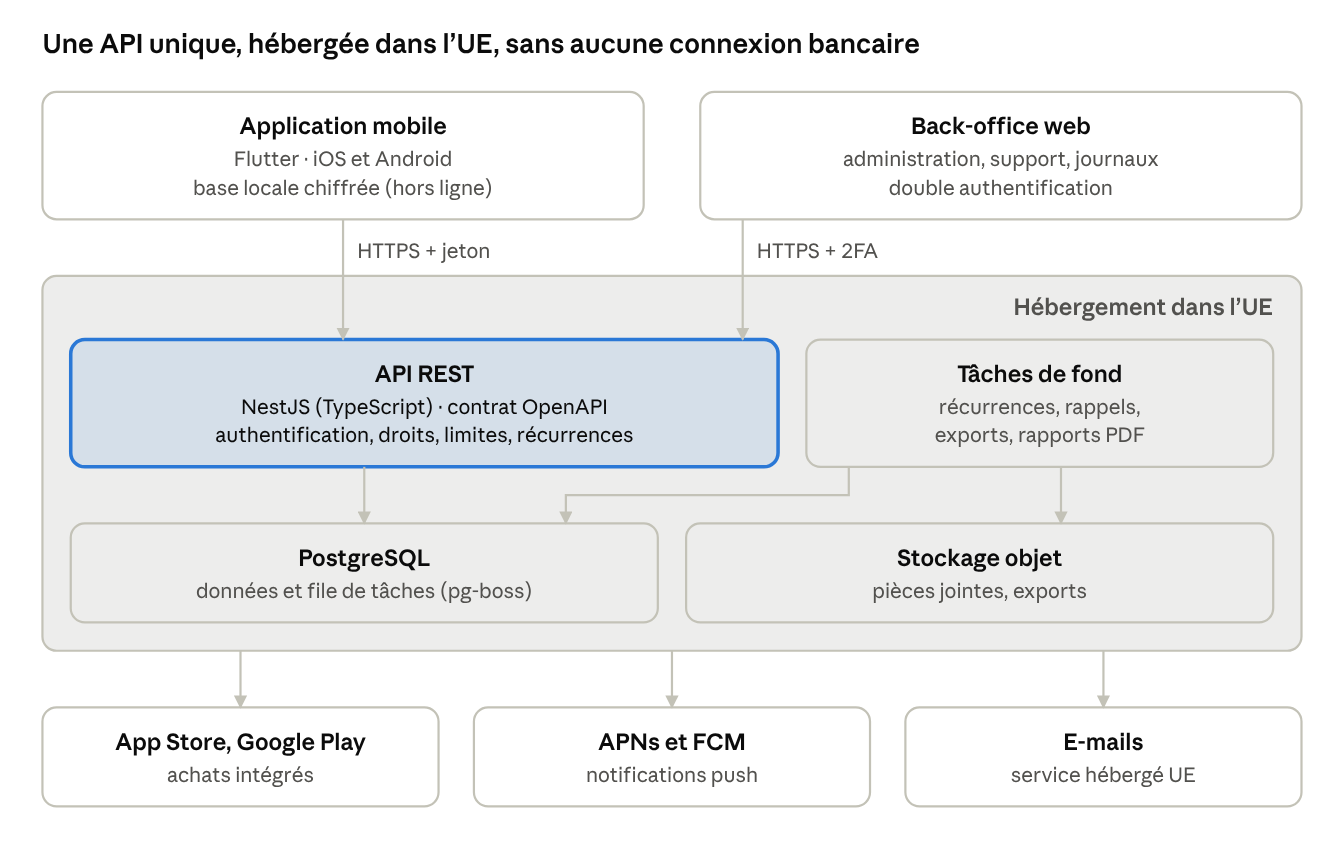
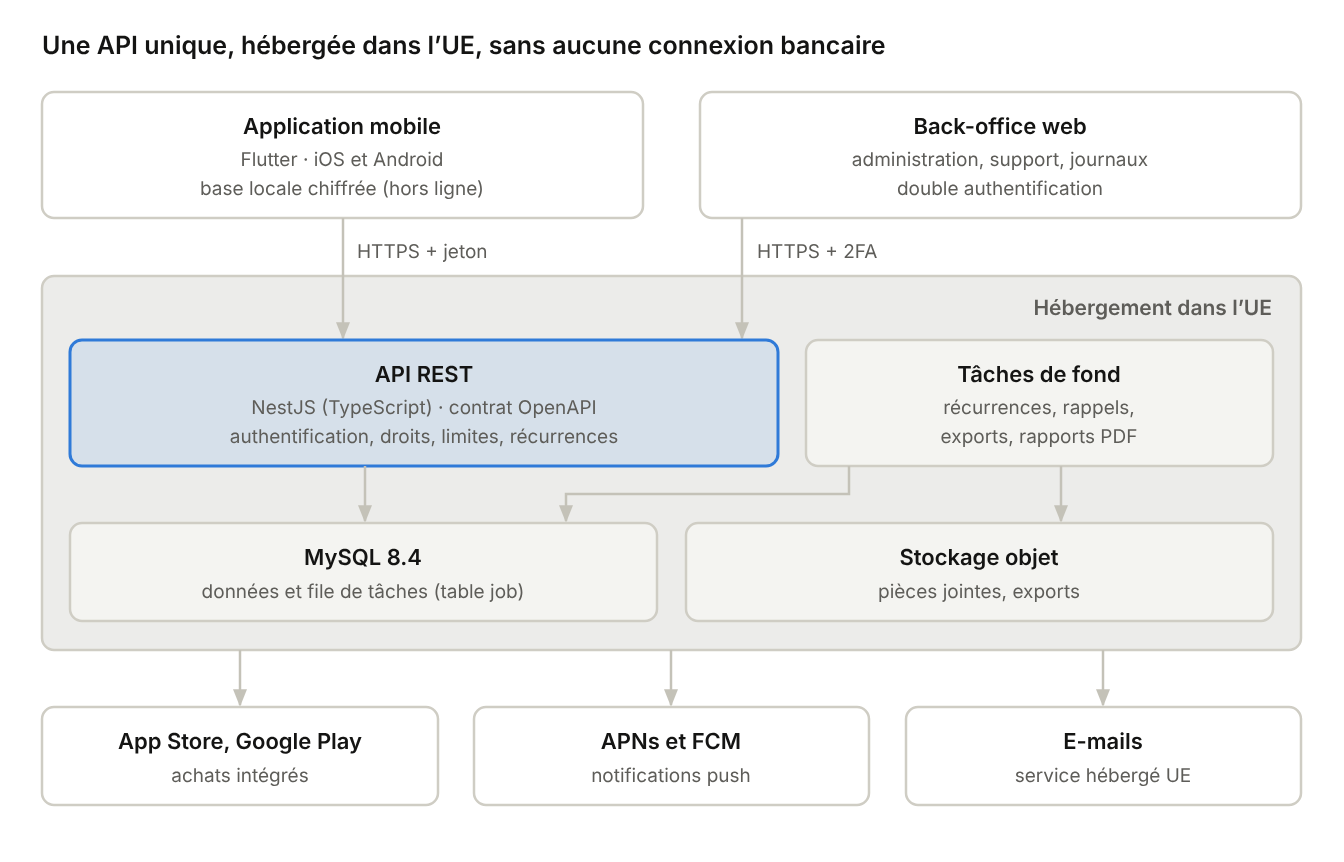
Passe la base de données de PostgreSQL à MySQL
Le cahier des charges retient MySQL 8.4 à la place de PostgreSQL 16 et
en traite les conséquences : file de tâches dans MySQL à la place de
pg-boss, règles de schéma et de pilote (dates, UTC, utf8mb4, UUID,
verrous, migrations), exigences, charge, recette, risques et schéma
d'architecture.

Claude-Session: https://claude.ai/code/session_01LeXdDQ83z9h7gFTDTb3WxZ

diff --git a/docs/cahier-des-charges.md b/docs/cahier-des-charges.md
@@ -1,6 +1,6 @@
 # Cahier des charges — Depenseo, application de suivi des dépenses (France et Europe)
 
-Version du 4 novembre 2026
+Version du 4 novembre 2026, révision 2 : base de données MySQL (voir section 12)
 
 ## 1. Contexte et objectifs
 
@@ -219,12 +219,13 @@ Les montants et les dates sont les deux points où une erreur détruit la confia
 
 | ID | Exigence |
 | --- | --- |
-| NF-FMT-01 | Montants stockés en entiers de centimes (ou décimal exact), jamais en nombre à virgule flottante ; devise ISO 4217 stockée avec chaque montant. |
+| NF-FMT-01 | Montants stockés en entiers de centimes (ou décimal exact), jamais en nombre à virgule flottante ; devise ISO 4217 stockée avec chaque montant. En base : `BIGINT` pour les centimes, `DECIMAL` pour les taux de change, jamais `FLOAT` ni `DOUBLE`. |
 | NF-FMT-02 | Une date de dépense, d'échéance ou de début de période est une **date calendaire sans heure ni fuseau** (format AAAA-MM-JJ). Elle n'est jamais convertie en UTC. |
 | NF-FMT-03 | Les horodatages techniques (création, modification) sont stockés en UTC et affichés dans le fuseau de l'appareil. |
 | NF-FMT-04 | « Aujourd'hui », les semaines (du lundi au dimanche en France), les mois et les périodes de limite sont calculés dans le fuseau de l'utilisateur. |
 | NF-FMT-05 | Tests automatisés des calculs de dates dans au moins 4 fuseaux (Paris, Lisbonne, Montréal, La Réunion) et autour des changements d'heure. |
 | NF-FMT-06 | Format des nombres selon la langue (1 234,56 € en français) ; saisie tolérante (virgule ou point acceptés comme séparateur décimal). |
+| NF-FMT-07 | La base et son pilote respectent NF-FMT-02 et 03 : une colonne `DATE` est lue comme une chaîne AAAA-MM-JJ, jamais comme un objet date ; serveur et connexions MySQL en UTC (section 8.2). |
 
 ### 7.2 Sécurité
 
@@ -243,7 +244,7 @@ Les montants et les dates sont les deux points où une erreur détruit la confia
 | --- | --- |
 | NF-PERF-01 | Ouverture de l'app jusqu'à l'accueil affiché en moins de 2 s sur un téléphone milieu de gamme de 2023. |
 | NF-PERF-02 | 95 % des appels d'API en moins de 300 ms (hors génération de rapports). |
-| NF-DISP-01 | Disponibilité mensuelle de l'API ≥ 99,5 % ; sauvegarde quotidienne, perte de données maximale 1 h, reprise en moins de 4 h. |
+| NF-DISP-01 | Disponibilité mensuelle de l'API ≥ 99,5 % ; sauvegarde quotidienne, perte de données maximale 1 h, reprise en moins de 4 h. La perte maximale de 1 h suppose, en plus de la sauvegarde quotidienne, la conservation des journaux binaires MySQL (restauration à un instant donné). |
 | NF-OFF-01 | Consultation hors connexion des données déjà chargées ; saisie hors ligne synchronisée au retour du réseau, sans doublon. |
 
 ### 7.4 Qualité et exploitation
@@ -252,12 +253,12 @@ Les montants et les dates sont les deux points où une erreur détruit la confia
 | --- | --- |
 | NF-QUA-01 | Couverture de tests automatisés ≥ 70 % sur la logique métier (totaux de période, limites, projections, récurrences, dédoublonnage). |
 | NF-QUA-02 | Taux de sessions sans plantage ≥ 99,5 %, mesuré par un outil de suivi des erreurs hébergé dans l'UE. |
-| NF-QUA-03 | Intégration et déploiement continus ; environnements de développement, recette et production séparés, avec données fictives hors production. |
+| NF-QUA-03 | Intégration et déploiement continus ; environnements de développement, recette et production séparés, avec données fictives hors production. Même version de MySQL (8.4) partout, tests automatisés compris (conteneur Docker en CI) : jamais SQLite ni un autre moteur pour simuler la base. |
 | NF-QUA-04 | Accessibilité WCAG 2.1 AA vérifiée à chaque version sur les parcours clés. |
 
 ## 8. Architecture et stack technique
 
-L'architecture est volontairement sobre pour qu'un développeur seul puisse la construire et l'exploiter : Flutter pour le mobile (comme BilliTime), une API TypeScript et une seule base PostgreSQL, qui sert aussi de file de tâches. Tout est hébergé dans l'UE.
+L'architecture est volontairement sobre pour qu'un développeur seul puisse la construire et l'exploiter : Flutter pour le mobile (comme BilliTime), une API TypeScript et une seule base MySQL, qui sert aussi de file de tâches. Tout est hébergé dans l'UE.
 
 ![Architecture cible : 2 clients, 1 API, 3 services externes](images/architecture.png)
 
@@ -271,32 +272,67 @@ L'application ne parle qu'à l'API. Aucun service ne contacte une banque : les s
 | Graphiques | fl_chart | Déjà éprouvé dans BilliTime |
 | Back-office | Application web légère (Next.js ou AdminJS) | Séparée de l'app publique (F-ADM-02) |
 | API | Node.js 22, NestJS, TypeScript, contrat OpenAPI | Typage de bout en bout, structure claire pour un développeur seul |
-| Base de données | PostgreSQL 16 géré, chiffrement au repos, sauvegardes quotidiennes | Fiabilité transactionnelle |
-| Tâches de fond | pg-boss (file de tâches dans PostgreSQL) | Pas de Redis à exploiter |
+| Base de données | MySQL 8.4 LTS géré (InnoDB), chiffrement au repos, sauvegardes quotidiennes et restauration à un instant donné | Fiabilité transactionnelle, version maintenue jusqu'en 2032 |
+| Accès aux données | Drizzle ORM sur le pilote mysql2, migrations SQL versionnées | Requêtes typées ; dates calendaires lues en chaînes (NF-FMT-07) |
+| Tâches de fond | File de tâches dans MySQL (table `job`, verrouillage `SKIP LOCKED`), planification par @nestjs/schedule | pg-boss ne fonctionne qu'avec PostgreSQL ; pas de Redis à exploiter |
 | Fichiers | Stockage objet compatible S3, chiffré | Pièces jointes, exports |
-| Hébergement | Scaleway, OVHcloud ou Clever Cloud (France), conteneurs gérés | Données dans l'UE, peu d'administration système |
+| Hébergement | Scaleway, OVHcloud ou Clever Cloud (France), conteneurs gérés et MySQL 8.4 géré (offre à confirmer chez l'hébergeur retenu) | Données dans l'UE, peu d'administration système |
 | Authentification | Module intégré à l'API (e-mail, Apple, Google) | Pas de service tiers hors UE |
 | Abonnements | Vérification directe des reçus App Store et Google Play, ou RevenueCat | Gain de temps ; RevenueCat à encadrer (sous-traitant hors UE) |
 | Notifications | APNs et Firebase Cloud Messaging (contenu sans montant) | Seul moyen d'envoyer un push sur iOS et Android |
 | Suivi des erreurs et audience | Sentry (hébergement UE) ; mesure d'audience exemptée de consentement | Conformité CNIL |
 | CI/CD | GitHub Actions et Fastlane | Publications reproductibles |
 
-### 8.2 Modèle de données principal
+### 8.2 Contraintes liées à MySQL
+
+MySQL est retenu à la place de PostgreSQL. Ce choix ne change ni les fonctions ni l'application mobile, dont la base locale reste SQLite (Drift et SQLCipher). Il change la façon d'écrire le schéma, les requêtes et la file de tâches. Les règles ci-dessous évitent que le changement de moteur réintroduise les défauts de dates et de montants relevés dans BilliTime (section 9).
+
+| Sujet | Règle |
+| --- | --- |
+| Version et moteur | MySQL 8.4 LTS, moteur InnoDB. Ni MySQL 8.0, en fin de support depuis avril 2026, ni MariaDB, dont le JSON, les fonctions UUID et certains comportements diffèrent. |
+| Encodage | `utf8mb4` et collation `utf8mb4_0900_ai_ci` pour toute la base : accents et emojis (icônes de catégories) stockés sans perte, recherche F-DEP-09 insensible à la casse et aux accents (« energie » trouve « Énergie »). Jamais `utf8`, qui désigne l'ancien encodage sur 3 octets. |
+| Montants | `BIGINT` en centimes, `DECIMAL(18,8)` pour les taux de change, `CHAR(3)` pour la devise (NF-FMT-01). |
+| Dates calendaires | Type `DATE`. Par défaut, le pilote mysql2 transforme un `DATE` en objet `Date` JavaScript à minuit dans le fuseau du serveur : c'est le décalage d'un jour observé dans BilliTime. Le mode chaîne (`dateStrings: ['DATE']`, ou `mode: 'string'` dans Drizzle) est obligatoire et vérifié par la suite multi-fuseaux (NF-FMT-05). |
+| Horodatages | `DATETIME(3)` en UTC. Serveur réglé sur `default_time_zone = '+00:00'`, connexions ouvertes avec `timezone: 'Z'`. Pas de `TIMESTAMP`, limité à 2038 et converti selon le fuseau de la session. |
+| Identifiants | UUID v7 générés par l'application, y compris hors ligne, stockés en `BINARY(16)`. MySQL n'a ni type UUID ni clause `RETURNING` : l'identifiant est connu avant l'insertion. |
+| Saisie hors ligne sans doublon | L'identifiant créé sur le téléphone rend l'envoi idempotent : `INSERT … ON DUPLICATE KEY UPDATE`, équivalent de `ON CONFLICT` (NF-OFF-01). |
+| Synchronisation différentielle | Colonne `updated_at` sur chaque table synchronisée, index `(notebook_id, updated_at, id)`. Le curseur porte sur le couple `(updated_at, id)`, car plusieurs lignes peuvent partager un horodatage. Les suppressions sont logiques (`deleted_at`) pour atteindre les autres appareils, purgées après 30 jours, et immédiatement à la suppression du compte (F-AUTH-07). |
+| Types structurés | Pas de type tableau : étiquettes et membres de carnet en tables de liaison. `JSON` réservé aux données jamais filtrées en SQL (charges utiles des tâches, réglages). |
+| Unicité conditionnelle | Pas d'index partiel. Exemple : une limite globale a une catégorie vide, et deux `NULL` ne se gênent pas dans un index unique. Une colonne générée (catégorie ou valeur fixe pour « globale ») entre dans l'index unique `(carnet, période, catégorie, date d'effet)`. |
+| Transactions et verrous | Isolation `READ COMMITTED` pour les connexions de l'API (InnoDB est en `REPEATABLE READ` par défaut, avec plus de verrous de plage et d'interblocages). Nouvelle tentative automatique sur interblocage (erreur 1213) et sur attente de verrou dépassée (1205). |
+| Migrations | Une instruction de schéma valide implicitement la transaction en cours : une migration interrompue ne s'annule pas d'elle-même. Une migration par changement, rejouée en recette avant la production, avec `ALGORITHM=INSTANT` ou `INPLACE` quand c'est possible pour ne pas bloquer les tables. |
+| Sécurité | `require_secure_transport = ON` (TLS obligatoire), chiffrement au repos de l'offre gérée, sauvegardes et journaux binaires compris. Comptes séparés : API (lecture et écriture, sans droit sur le schéma), migrations, back-office (NF-SEC-06). |
+| Sauvegardes | Sauvegarde complète quotidienne, journaux binaires conservés au moins 7 jours pour restaurer à un instant donné (NF-DISP-01). Une restauration est testée avant le lancement, puis chaque trimestre. |
+
+**File de tâches.** pg-boss, prévu dans la version précédente, ne fonctionne qu'avec PostgreSQL. BullMQ imposerait Redis, que l'architecture veut éviter. La file reste donc dans la base, sous la forme d'un petit module de l'API :
+
+- une table `job` : type, charge utile JSON (sans montant ni donnée personnelle superflue, NF-SEC-06), date d'exécution en UTC, nombre de tentatives, statut, clé d'unicité ;
+- la tâche est créée dans la même transaction que la donnée qui la motive (une récurrence, une demande d'export) : pas de tâche orpheline ni de tâche perdue ;
+- les workers prennent les tâches dues par `SELECT … FOR UPDATE SKIP LOCKED`, disponible depuis MySQL 8.0, ce qui permet plusieurs conteneurs sans double traitement ;
+- la clé d'unicité (par exemple `occurrence:<id>`) empêche de planifier deux fois la même échéance ou le même rappel ;
+- en cas d'échec, nouvelle tentative avec délai croissant, puis statut « en échec » visible dans le back-office après 5 essais ;
+- la planification périodique (échéances du jour, rappels à l'heure locale, résumés de période) passe par @nestjs/schedule, protégée par `GET_LOCK()` pour qu'une seule instance planifie à la fois ;
+- les tâches terminées sont purgées après 7 jours.
+
+### 8.3 Modèle de données principal
+
+Tous les identifiants sont des UUID v7 (section 8.2).
 
 | Entité | Champs clés |
 | --- | --- |
 | User | id, e-mail, langue, fuseau horaire, devise, plan, dates de consentement |
 | Notebook | carnet de dépenses : id, nom, propriétaire, membres et rôles (personnel par défaut, partagé en option) |
-| Expense | id, carnet, auteur, montant en centimes, devise d'origine, montant converti, date calendaire, catégorie, note, marchand, moyen de paiement (libellé), source (saisie, récurrence, import), dépense remboursée liée |
+| Expense | id, carnet, auteur, montant en centimes, devise d'origine, montant converti, date calendaire, catégorie, note, marchand, moyen de paiement (libellé), étiquettes (table de liaison), source (saisie, récurrence, import), dépense remboursée liée, dates de modification et de suppression logique |
 | Category / Rule | catégorie (nom, icône, couleur, parent) ; règle (motif de note ou de marchand → catégorie) |
 | RecurringExpense / Occurrence | modèle (fréquence, jour, montant, enregistrement automatique ou non) ; échéance (date, statut, dépense liée) |
 | SpendingLimit | carnet, période (mois ou semaine), jour de début, montant, catégorie (vide = limite globale), inclut les récurrences, date d'effet |
 | Attachment | dépense, type, taille, clé de stockage |
 | Subscription | store, identifiant d'achat, plan, début, fin, statut de renouvellement |
+| Job | file de tâches : type, charge utile, date d'exécution, tentatives, statut, clé d'unicité |
 
-### 8.3 API
+### 8.4 API
 
-API REST versionnée (`/v1`), décrite en OpenAPI, avec pagination par curseur et synchronisation différentielle (`updated_since`) pour la saisie hors ligne. Ressources principales : `/auth`, `/me`, `/notebooks`, `/expenses`, `/categories`, `/rules`, `/recurring-expenses`, `/limits`, `/imports`, `/exports`, `/attachments`, `/subscriptions`. Les notifications des stores arrivent sur des points d'entrée dédiés, signés et vérifiés.
+API REST versionnée (`/v1`), décrite en OpenAPI, avec pagination par curseur et synchronisation différentielle (`updated_since`, curseur `(updated_at, id)`, section 8.2) pour la saisie hors ligne. Ressources principales : `/auth`, `/me`, `/notebooks`, `/expenses`, `/categories`, `/rules`, `/recurring-expenses`, `/limits`, `/imports`, `/exports`, `/attachments`, `/subscriptions`. Les notifications des stores arrivent sur des points d'entrée dédiés, signés et vérifiés.
 
 ## 9. Enseignements de l'analyse de BilliTime
 
@@ -304,7 +340,7 @@ L'analyse de BilliTime 1.1.7 (analyse statique de l'APK et tests sur un Xiaomi 1
 
 | Défaut observé dans BilliTime | Effet pour l'utilisateur | Réponse de Depenseo |
 | --- | --- | --- |
-| Dates décalées d'un jour en UTC+1 (achat du 3 nov. affiché le 2, relevé du 15 affiché le 14) | Rappels un jour trop tôt, historique faux | NF-FMT-02 à 05 |
+| Dates décalées d'un jour en UTC+1 (achat du 3 nov. affiché le 2, relevé du 15 affiché le 14) | Rappels un jour trop tôt, historique faux | NF-FMT-02 à 05 et 07, section 8.2 |
 | « 42.50 » saisi devient 4 250 (point lu comme séparateur de milliers) | Montants décuplés sans avertissement | F-DEP-02, NF-FMT-06 |
 | Module publicitaire chargé même pour un abonné, identifiants de test Google en production, aucun recueil de consentement | Non-conformité RGPD et ePrivacy en Europe, aucun revenu publicitaire réel | Aucune publicité (section 5), règles sur les traceurs (section 6) |
 | Console d'administration embarquée dans l'app publique | Surface d'attaque inutile, révèle les routes internes | F-ADM-01 et 02 |
@@ -318,7 +354,7 @@ L'analyse de BilliTime 1.1.7 (analyse statique de l'APK et tests sur un Xiaomi 1
 
 ## 10. Planning, charge et budget indicatif
 
-Un développeur seul peut sortir le MVP en France environ 6 mois après le démarrage, pour environ 110 jours de travail et 1 100 à 6 500 € de frais externes la première année. Ces chiffres sont des estimations.
+Un développeur seul peut sortir le MVP en France environ 6 mois après le démarrage, pour environ 113 jours de travail et 1 100 à 6 500 € de frais externes la première année. Ces chiffres sont des estimations.
 
 ![Feuille de route : 5 phases, 2 jalons de décision](images/feuille-de-route.png)
 
@@ -330,12 +366,12 @@ Deux jalons conditionnent la suite : le développement ne démarre qu'avec les m
 | --- | --- |
 | Cadrage, maquettes et système de design | 15 |
 | Application mobile Flutter (saisie, limites, récurrences, graphiques, hors ligne) | 45 |
-| API, base de données, back-office | 30 |
+| API, base de données MySQL (dont file de tâches), back-office | 33 |
 | Tests automatisés, recette, corrections | 15 |
 | Publication sur les stores, documents juridiques, conformité | 5 |
-| **Total** | **110** |
+| **Total** | **113** |
 
-À temps plein, 110 jours représentent environ 5 mois ; à mi-temps, compter 10 à 11 mois et décaler la feuille de route d'autant.
+La file de tâches écrite dans l'API (section 8.2) ajoute environ 3 jours par rapport à pg-boss. À temps plein, 113 jours représentent environ 5 mois ; à mi-temps, compter 10 à 11 mois et décaler la feuille de route d'autant.
 
 ### 10.2 Frais externes de la première année
 
@@ -343,7 +379,7 @@ Deux jalons conditionnent la suite : le développement ne démarre qu'avec les m
 | --- | --- |
 | Programme développeur Apple | 99 $ par an |
 | Compte développeur Google Play | 25 $, une seule fois |
-| Hébergement UE (API, base, stockage, sauvegardes) | 20 à 50 € par mois |
+| Hébergement UE (API, base MySQL gérée, stockage, sauvegardes) | 20 à 50 € par mois |
 | Nom de domaine et e-mail professionnel | 30 à 80 € par an |
 | Dépôt de la marque Depenseo à l'INPI (une classe) | environ 190 € |
 | Relecture des CGU, CGV et politique de confidentialité par un avocat | 500 à 1 500 € |
@@ -364,6 +400,8 @@ Le MVP est accepté quand toutes les exigences « M » passent leurs tests et qu
 - [ ] Catégorie proposée correcte pour au moins 80 % de 500 dépenses de test
 - [ ] Aucun écart de date, de période ni de montant sur la suite de tests multi-fuseaux (NF-FMT-05)
 - [ ] Limites mensuelles et hebdomadaires justes aux changements de période, de mois et d'heure
+- [ ] Suite multi-fuseaux et tests de l'API exécutés contre MySQL 8.4, avec la configuration de production (UTC, dates en chaînes, `utf8mb4`)
+- [ ] Migrations rejouées depuis une base vide et sur la base de recette sans erreur ; restauration d'une sauvegarde à un instant donné réussie
 - [ ] Auto-évaluation OWASP MASVS sans point critique ouvert
 - [ ] Vérification d'accessibilité (VoiceOver, TalkBack, contrastes) sur les parcours clés
 - [ ] Validation par Apple et Google en production
@@ -373,7 +411,7 @@ Le MVP est accepté quand toutes les exigences « M » passent leurs tests et qu
 | Livrable | Contenu |
 | --- | --- |
 | Code source | Application mobile, API, back-office, scripts d'infrastructure, versionnés sur GitHub |
-| Documentation | Ce cahier des charges, architecture, API (OpenAPI), modèle de données, procédures de sauvegarde et de reprise |
+| Documentation | Ce cahier des charges, architecture, API (OpenAPI), modèle de données et migrations MySQL, procédures de sauvegarde et de reprise |
 | Design | Maquettes Figma, système de design |
 | Tests | Tests automatisés, rapport de recette |
 | Conformité | Registre des traitements, AIPD, mentions légales, CGU et CGV, fiches de confidentialité des stores |
@@ -387,6 +425,7 @@ Le MVP est accepté quand toutes les exigences « M » passent leurs tests et qu
 | Concurrence d'applications plus complètes (avec synchronisation bancaire) | Élevée | Moyen | Positionnement assumé : simplicité, limite de dépense, aucune donnée bancaire demandée |
 | Faible conversion vers le Premium | Moyenne | Moyen | Test de prix, essai de 14 jours, valeur Premium visible (partage, limites par catégorie) |
 | Demande forte de synchronisation bancaire | Moyenne | Moyen | Import de relevés en V1 ; agrégation via un prestataire agréé étudiée seulement si les revenus le justifient |
+| Erreurs propres à MySQL : dates converties par le pilote, interblocages, migration interrompue à moitié, file de tâches écrite à la main | Moyenne | Élevé | Règles de la section 8.2, tests contre MySQL 8.4 en CI, migrations répétées en recette, échecs de tâches visibles dans le back-office |
 
 ### 11.4 Questions ouvertes
 
@@ -395,3 +434,11 @@ Le MVP est accepté quand toutes les exigences « M » passent leurs tests et qu
 - Faut-il un mode sans compte (F-AUTH-09) dès le MVP pour réduire la friction à l'installation ?
 - Le code de l'application sera-t-il public (open source) comme ce cahier des charges, ou privé ?
 - Quel budget et quels canaux d'acquisition au lancement ?
+- L'hébergeur retenu propose-t-il MySQL 8.4 géré dans l'UE, avec chiffrement au repos et restauration à un instant donné ? Sinon, quel hébergeur choisir ?
+
+## 12. Historique des versions
+
+| Version | Date | Changement |
+| --- | --- | --- |
+| 1 | 4 novembre 2026 | Première version, base PostgreSQL 16 et file de tâches pg-boss |
+| 2 | 4 novembre 2026 | Base de données MySQL 8.4 à la place de PostgreSQL : stack (8.1), nouvelles contraintes et file de tâches dans MySQL (8.2), entité Job (8.3), NF-FMT-01, NF-FMT-07, NF-DISP-01, NF-QUA-03, charge (+3 jours), recette, risques, questions ouvertes, schéma d'architecture |
